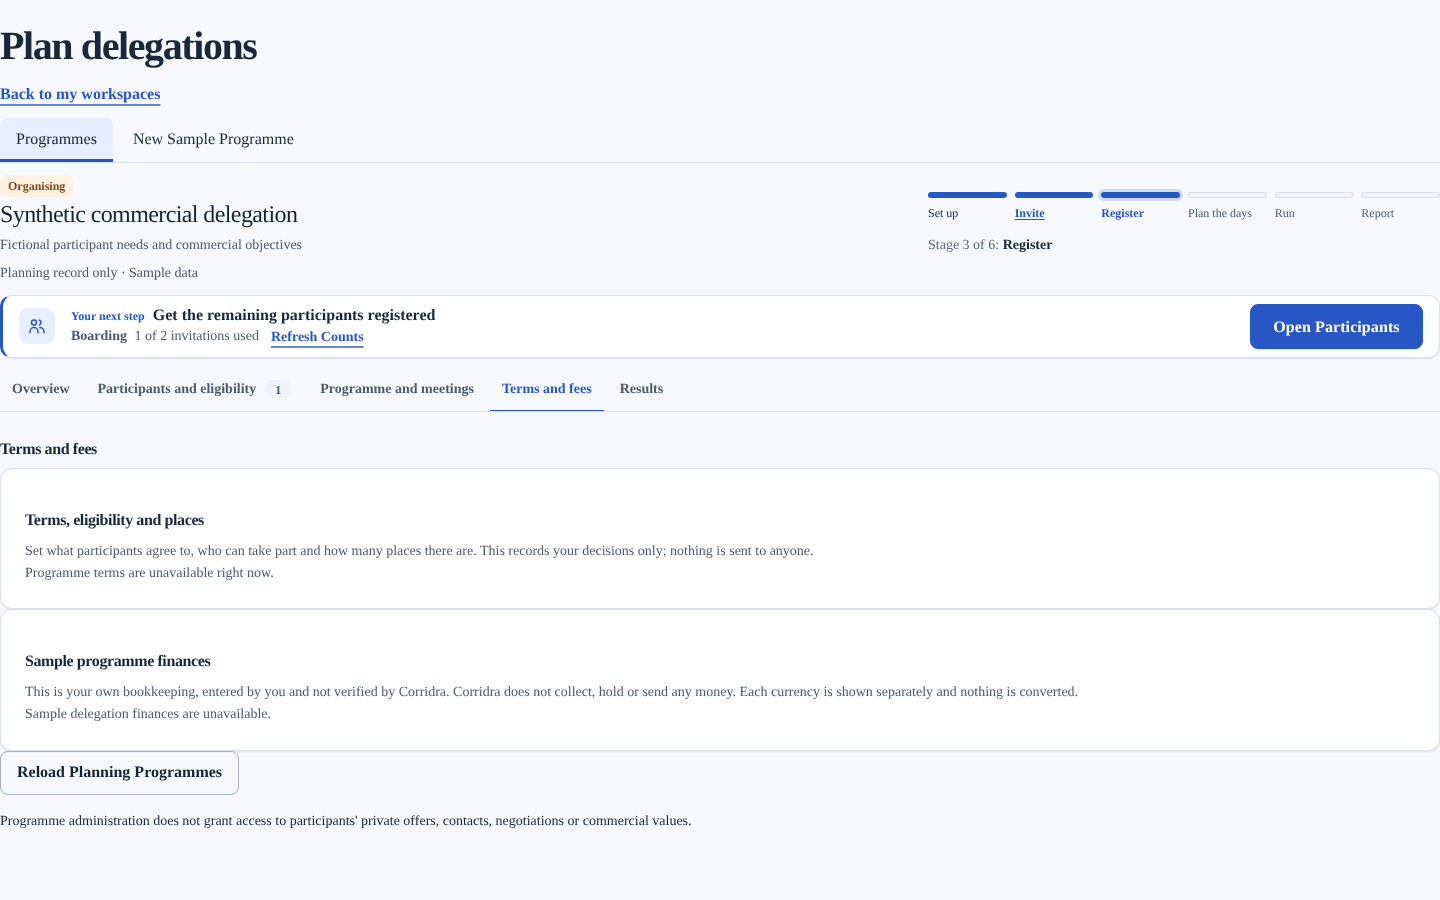
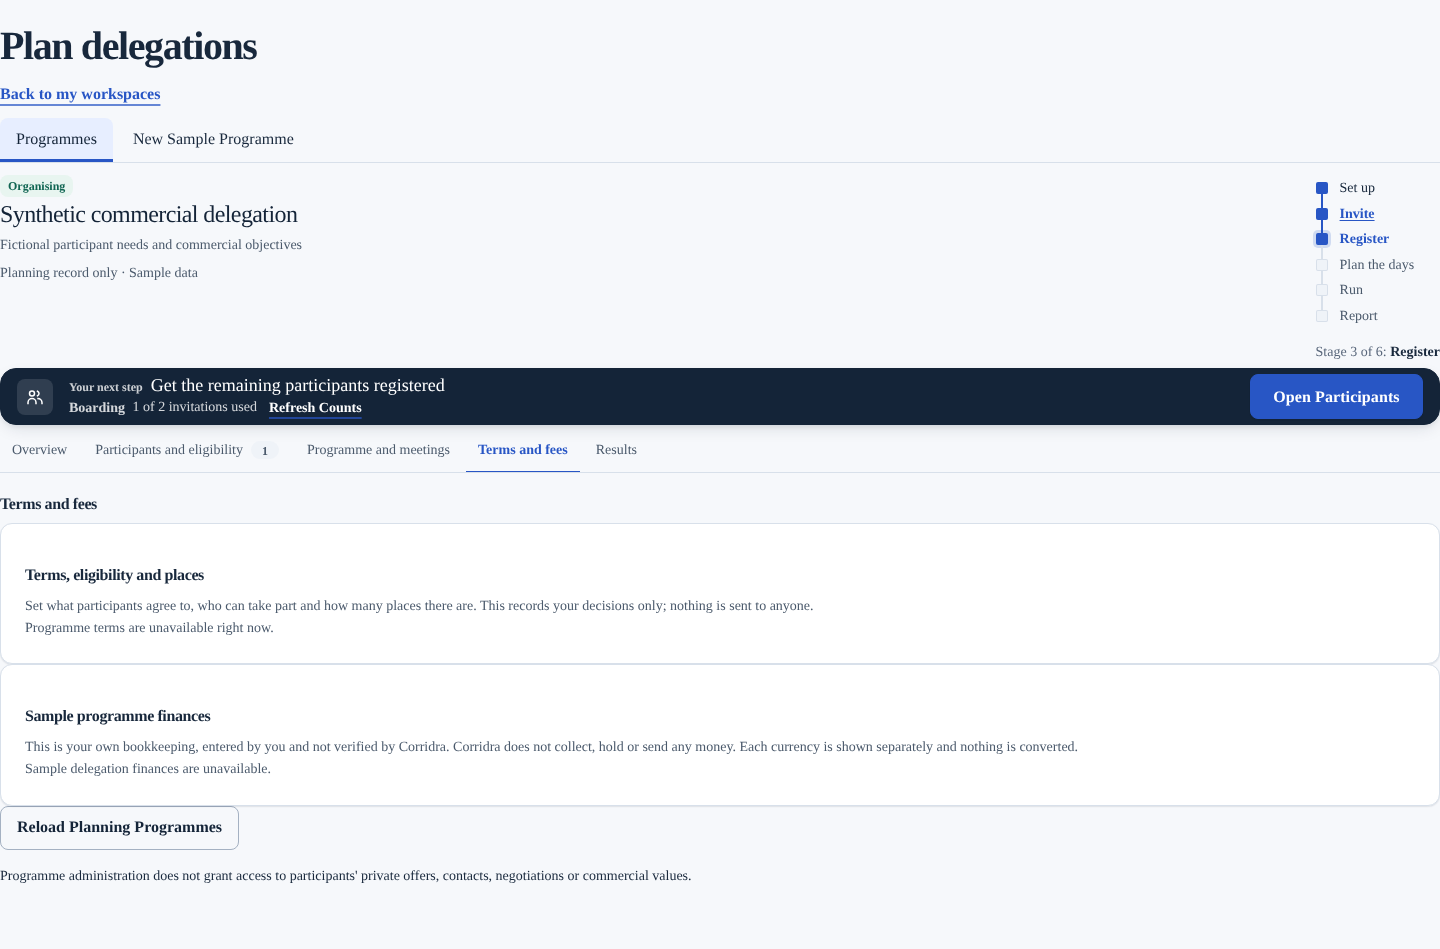
Room passes the stage variant: heading, shapes and Done lines live; scope and budget specs
Claude-Session: https://claude.ai/code/session_01LkNNXWMFJHoGf2SoS5FKw2

diff --git a/tests/operator/ux-room.spec.ts b/tests/operator/ux-room.spec.ts
@@ -305,12 +305,14 @@ test('shows who and what the request is, where it stands and what the team said'
   ).toBeVisible();
   await expect(page.getByText('China · Received')).toBeVisible();
   // MEETINGS is Visit. A delivered report lights Compare; no decision is ever claimed, and a stage with no
-  // record is a plain grey segment, never "Not tracked yet" (CX-06).
+  // record says "Not tracked yet", never Done or Later.
   const stage = page.locator('.room-stage .mr-stage');
   await expect(stage.locator('[aria-current="step"]')).toContainText('Visit');
-  await expect(stage.locator('li')).toHaveCount(6);
-  await expect(page.locator('.room-stage').getByText('Stage 4 of 6:')).toBeVisible();
-  await expect(page.getByText('Not tracked yet')).toHaveCount(0);
+  await expect(stage.locator('li[data-shape]')).toHaveCount(6);
+  await expect(page.locator('.room-stage').getByText('Step 4 of 6:')).toBeVisible();
+  await expect(page.locator('.mr-stage-lines')).toContainText('Done: Define, Find, Compare');
+  await expect(page.locator('.mr-stage-lines')).toContainText('Later: Follow through');
+  await expect(page.locator('.mr-stage-lines')).toContainText('Not tracked yet: Decide');
   await expect(page.getByText('Meetings are being arranged for November.')).toBeVisible();
   await expect(page.getByText('We have shortlisted three suppliers.')).toHaveCount(0);
   await page.getByRole('button', { name: /Read Every Reply/ }).click();
@@ -568,7 +570,8 @@ test('without lenses there is no lens control, and without a report the Road doe
   // Without a report Compare is not lit: only Define and Find, the stages before Visit, are done.
   const stage = page.locator('.room-stage .mr-stage');
   await expect(stage.locator('li[data-state="done"]')).toHaveCount(2);
-  await expect(page.getByText('Not tracked yet')).toHaveCount(0);
+  await expect(page.locator('.mr-stage-lines')).toContainText('Not tracked yet: Compare, Decide');
+  await expect(page.locator('.mr-stage-lines')).not.toContainText('Done: Define, Find, Compare');
 });
 
 // Source follow-ups 1 and 3 (S63): a machinery mission says which offer leaves out commissioning, and each quote carries the date it
@@ -2189,29 +2192,36 @@ test('AC/1: the next-step card is navy, its muted text reads at 4.5:1 and it has
   await expect(buttons).toHaveCSS('outline-style', 'solid');
 });
 
-test('AC/1: the stage timeline is vertical from tablet width, in order, and the card stays first on a phone', async ({
+test('AC/1: the stage timeline is vertical on a desktop, folds the finished stages, and the card stays first on a phone', async ({
   page,
 }) => {
   await page.setViewportSize({ width: 1440, height: 900 });
   await open(page);
-  const items = page.locator('.room-stage .mr-stage li');
+  const items = page.locator('.room-stage .mr-stage li[data-shape]');
   await expect(items).toHaveCount(6);
-  const boxes = await items.evaluateAll((els) =>
-    els.map((el) => {
-      const r = el.getBoundingClientRect();
-      return { x: Math.round(r.x), y: r.y };
-    }),
-  );
-  expect(new Set(boxes.map((b) => b.x)).size).toBe(1);
-  expect(boxes.map((b) => b.y)).toEqual([...boxes.map((b) => b.y)].sort((a, b) => a - b));
-  const words = await page.locator('.room-stage .mr-stage-name').allTextContents();
-  expect(words).toEqual(['Define', 'Find', 'Compare', 'Visit', 'Decide', 'Follow through']);
+  // One folded Done row, then the current stage, each later stage, then what is not tracked yet.
+  const rows = await page
+    .locator('.room-stage .mr-stage > li:not([data-shape="done"])')
+    .evaluateAll((els) =>
+      els
+        .map((el) => ({ y: el.getBoundingClientRect().y, text: el.textContent ?? '' }))
+        .sort((a, b) => a.y - b.y)
+        .map((row) => row.text),
+    );
+  expect(rows).toEqual([
+    'Done: Define, Find, Compare',
+    expect.stringMatching(/^VisitNow/),
+    expect.stringMatching(/^Follow throughLater/),
+    expect.stringMatching(/^DecideNot tracked yet/),
+  ]);
   await expect(page.locator('.room-stage .mr-stage [aria-current="step"]')).toContainText('Visit');
+  await expect(page.locator('.room-stage .mr-stage-heading')).toContainText('Step 4 of 6: Visit');
   await page.setViewportSize({ width: 390, height: 844 });
   const phone = await items.evaluateAll((els) =>
     els.map((el) => Math.round(el.getBoundingClientRect().y)),
   );
   expect(new Set(phone).size).toBe(1);
+  await expect(page.locator('.room-stage .mr-stage-lines')).toBeVisible();
   const card = await page.locator('.room-next').boundingBox();
   expect(card!.y + card!.height).toBeLessThan(844);
 });

diff --git a/tests/operator/room-timeline-scope.spec.ts b/tests/operator/room-timeline-scope.spec.ts
@@ -206,3 +206,14 @@ test('the organiser programme room keeps its slim horizontal stage bar on a phon
   expect(new Set(boxes.map((b) => b.y)).size).toBe(1);
   expect(new Set(boxes.map((b) => b.x)).size).toBe(6);
 });
+
+test('the organiser programme room does not take the request Room stage variant', async ({
+  page,
+}) => {
+  await page.setViewportSize({ width: 1440, height: 900 });
+  await open(page, 'room=1&proj=1', none);
+  await expect(page.locator('.programme-room[data-room]')).toHaveCount(0);
+  await expect(page.locator('.mr-stage-wrap[data-variant]')).toHaveCount(0);
+  await expect(page.locator('.mr-stage-heading')).toHaveCount(0);
+  await expect(page.locator('.room-next-mark').first()).toBeAttached();
+});

diff --git a/apps/web/app/account/rooms/[requestId]/room-view.tsx b/apps/web/app/account/rooms/[requestId]/room-view.tsx
@@ -320,6 +320,7 @@ export function RoomView({
   return (
     <div
       className="room"
+      data-room="request"
       lang={html}
       dir={dir}
       data-journey={journey ? journeyKey[journey] : undefined}
@@ -373,7 +374,8 @@ export function RoomView({
                 records={roadRecords(link)}
                 labels={labels.road}
                 name={title}
-                named
+                variant="room"
+                stepLang={locale !== 'en' ? 'en' : undefined}
               />
             </div>
           </header>

diff --git a/apps/web/app/account/rooms/[requestId]/room-budget.css b/apps/web/app/account/rooms/[requestId]/room-budget.css
@@ -60,3 +60,13 @@
     margin-top: 0;
   }
 }
+
+/* The request Room's stage (variant="room"): the timeline's rows sit close so the page keeps its one screen. */
+@media (min-width: 64rem) {
+  .room[data-room='request'] .mr-stage-wrap[data-variant='room'] {
+    gap: var(--space-2);
+  }
+  .room[data-room='request'] .mr-stage-wrap[data-variant='room'] .mr-stage {
+    gap: var(--space-2);
+  }
+}
